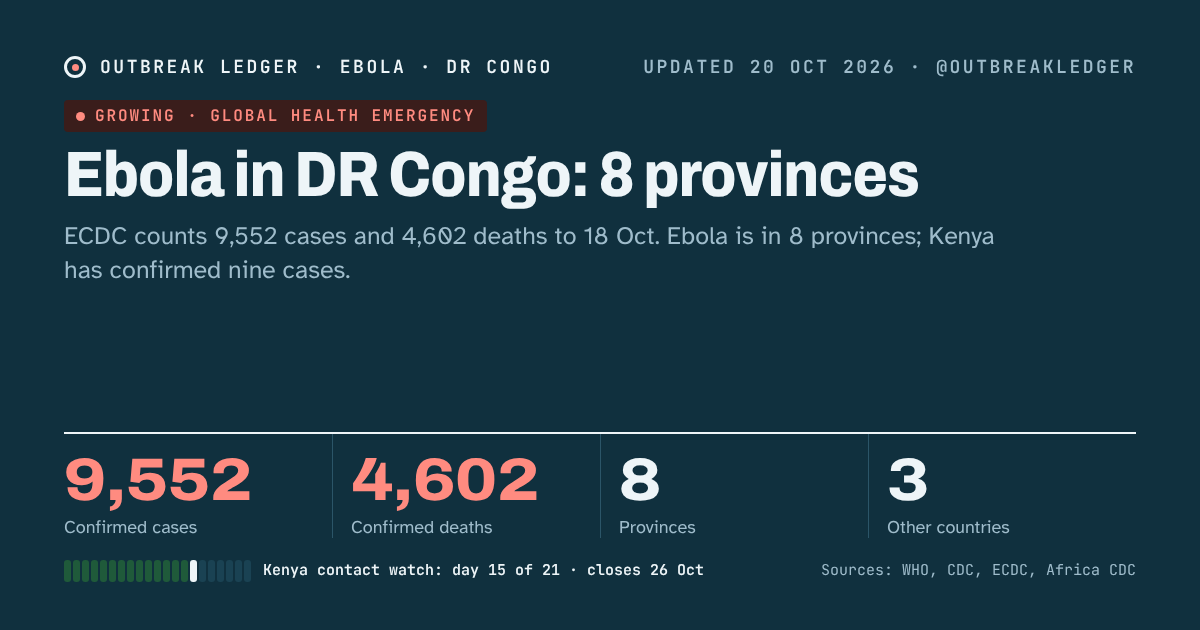
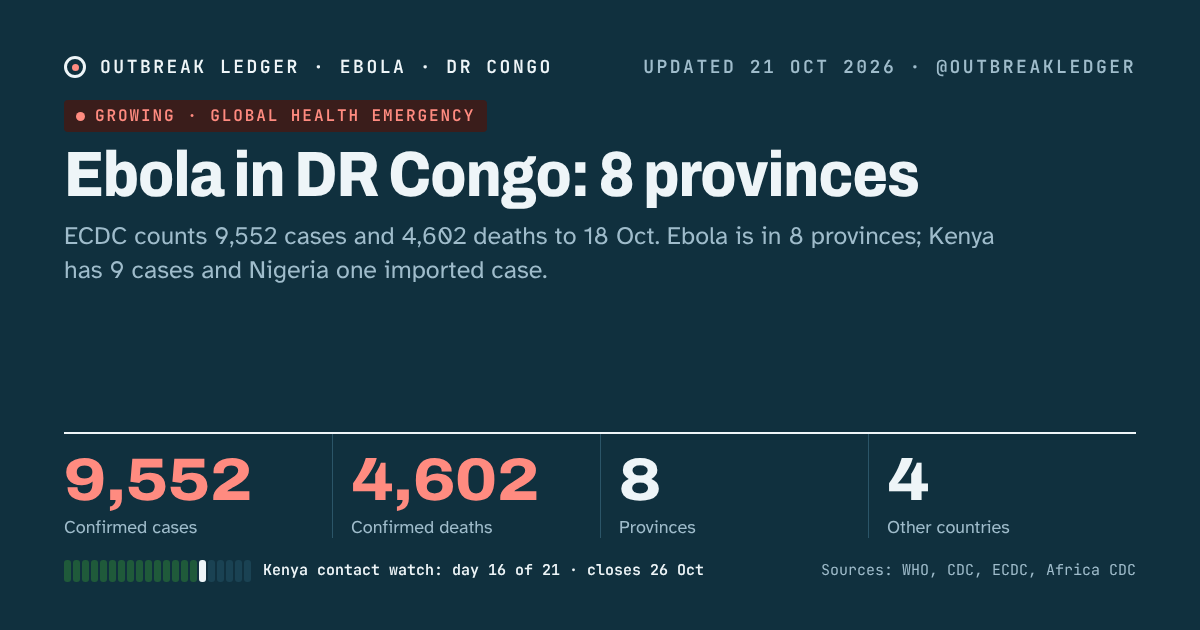
Trackers: Ebola Nigeria confirms imported case (4 other countries); measles, mpox, cholera, dengue, Marburg checked, no change
Claude-Session: https://claude.ai/code/session_01DjK934MGj4uKY77RiACNyU

diff --git a/site/ebola/share/latest-post.md b/site/ebola/share/latest-post.md
@@ -1,5 +1,5 @@
-Ebola in DR Congo: ECDC counts 9,552 confirmed cases and 4,602 deaths to 18 Oct, in 8 provinces. Kenya's health ministry has confirmed a ninth case and says all nine belong to one cluster.
+Ebola in DR Congo: ECDC counts 9,552 confirmed cases and 4,602 deaths to 18 Oct, in 8 provinces. Nigeria has confirmed one imported case; Kenya has confirmed nine.
 
 https://nhlebe1.github.io/ai-scheduler-platform/ebola/
 
-Sources: ECDC update (19 Oct, data to 18 Oct); Kenya Ministry of Health via Al Jazeera and The Washington Post (20 Oct).
+Sources: WHO Africa (Nigeria, 20 Oct); ECDC update (19 Oct, data to 18 Oct); Kenya Ministry of Health via Al Jazeera and The Washington Post (20 Oct).
